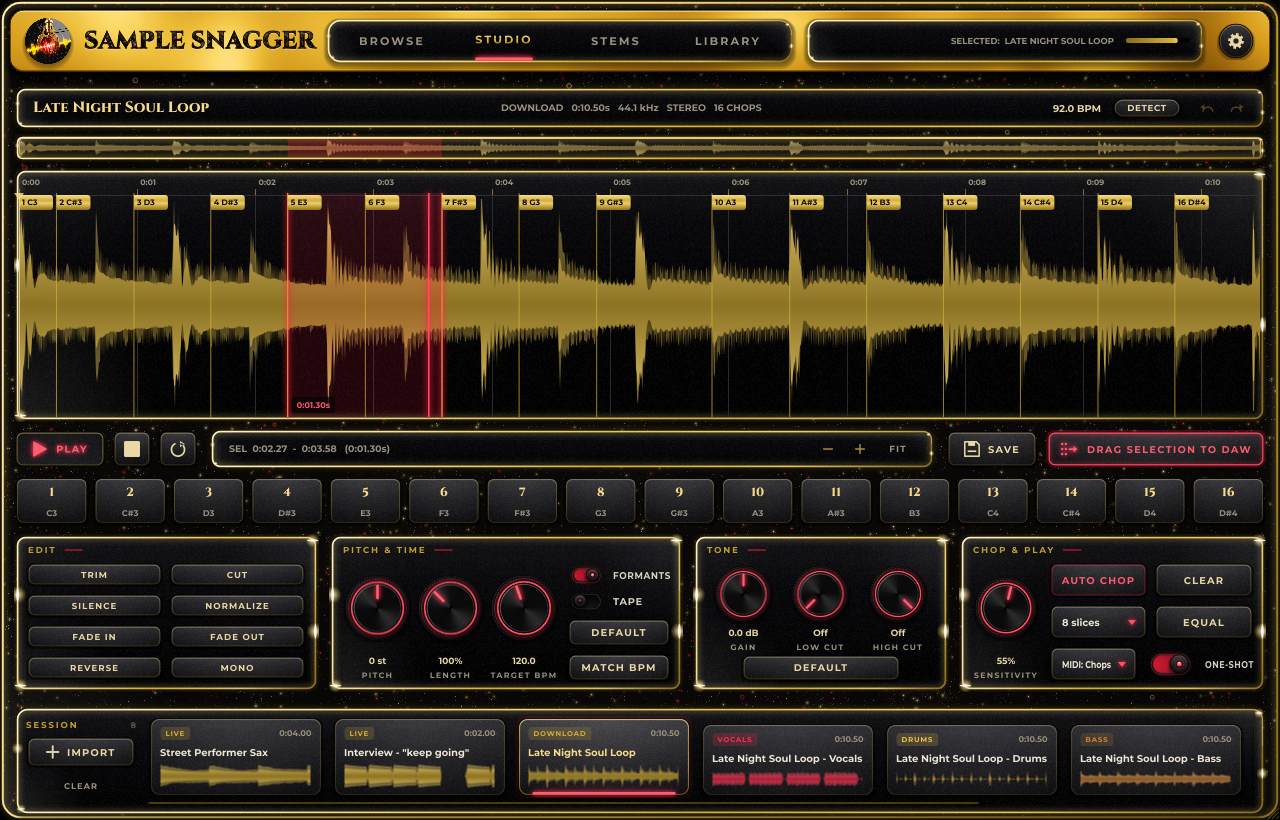
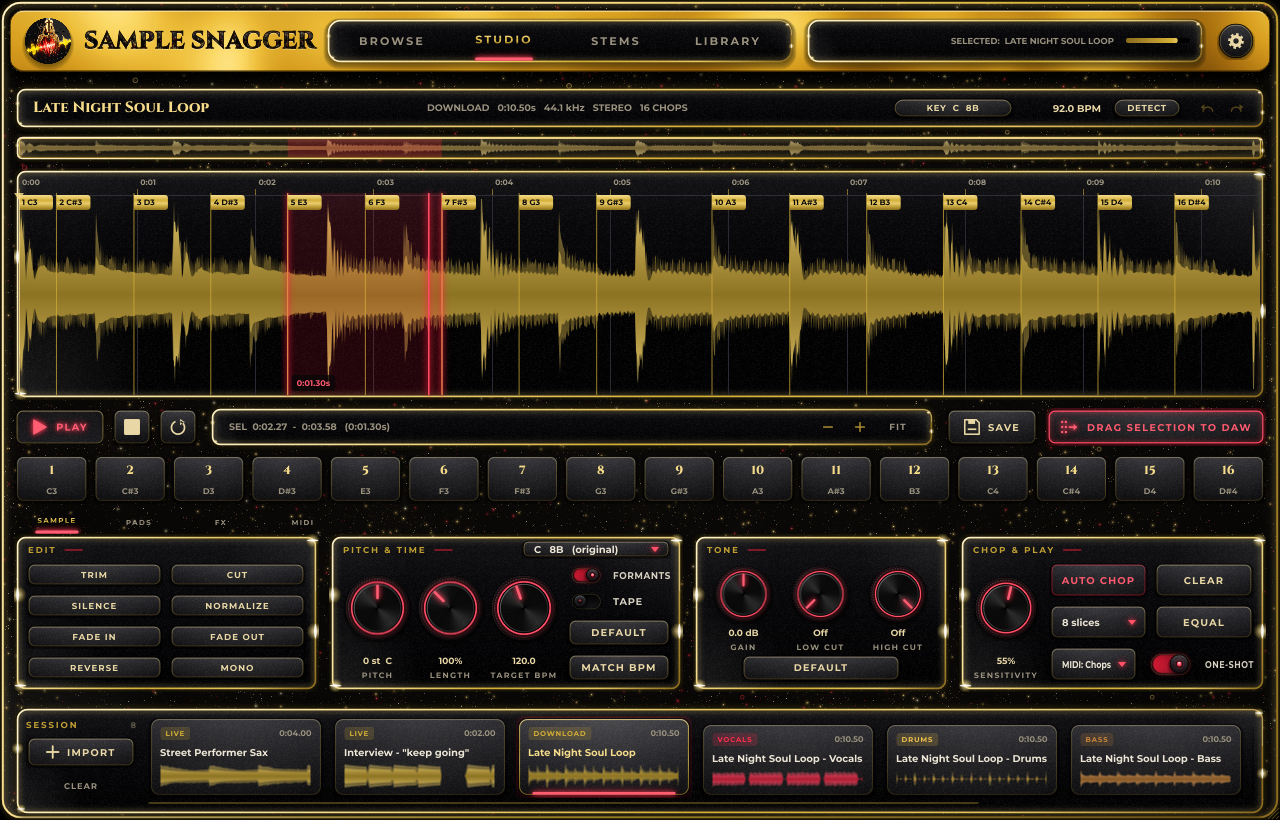
Sample Snagger 1.5.0: key detection, per-pad sound, FX rack, audio to MIDI [release]
- Key detection: tuning-aware chroma of the sustained sound + Temperley
  profiles + bass-root bonus; Camelot codes; click the key for the likeliest
  alternatives or to set it; TO KEY shifts the sample (PITCH shows the key).
- STUDIO tabs: SAMPLE | PADS | FX | MIDI.
- PADS: gain, pitch (sampler style), reverse, attack, release, filter per
  chop; COPY TO ALL PADS; pads play it live and drags include it.
- FX: lo-fi (bits, rate, vinyl crackle / hiss / wow), drive, ping-pong delay
  synced to the host tempo, reverb - on the pads and STUDIO playback, and
  rendered with their tails into drags and saves.
- MIDI: Spotify's Basic Pitch (Apache 2.0) built in, run by a small ONNX
  reader (matches the reference 28/28 notes); sensitivity / min note /
  melody-only reshape instantly; LISTEN, SAVE .MID, DRAG MIDI.
- Settings: LICENCES shows the third-party notices.

Claude-Session: https://claude.ai/code/session_014VmkDpybidYTX5yiYvJNqu

diff --git a/Source/ui/SettingsPanel.cpp b/Source/ui/SettingsPanel.cpp
@@ -1,4 +1,5 @@
 #include "SettingsPanel.h"
+#include "SnaggerBinaryData.h"
 #include "../PluginProcessor.h"
 #include "../Actions.h"
 #include "../core/AiStems.h"
@@ -204,6 +205,11 @@ SettingsPanel::SettingsPanel (EditorContext& c) : ctx (c), proc (c.getProcessor(
     addChildComponent (audioBtn);
     audioBtn.setVisible (proc.wrapperType == juce::AudioProcessor::wrapperType_Standalone);
 
+    setStyle (licencesBtn, "ghost");
+    licencesBtn.setTooltip ("The open-source software inside Sample Snagger, and its licences");
+    licencesBtn.onClick = [this] { showLicences(); };
+    addAndMakeVisible (licencesBtn);
+
     proc.getTools().addChangeListener (this);
     setVisible (false);
 }
@@ -277,6 +283,30 @@ void SettingsPanel::resized()
     lib.removeFromRight (10);
     lib.removeFromLeft (110);
     libLabel.setBounds (lib);
+
+    licencesBtn.setBounds (card.reduced (24, 16).removeFromBottom (32).removeFromRight (96).reduced (0, 5));
+}
+
+void SettingsPanel::showLicences()
+{
+    auto* text = new juce::TextEditor();
+    text->setMultiLine (true);
+    text->setReadOnly (true);
+    text->setScrollbarsShown (true);
+    text->setFont (theme::mono (12.0f));
+    text->setColour (juce::TextEditor::backgroundColourId, theme::col::bg1);
+    text->setColour (juce::TextEditor::textColourId, theme::col::text);
+    text->setText (juce::String::fromUTF8 (SnaggerBinary::THIRD_PARTY_NOTICES_txt, SnaggerBinary::THIRD_PARTY_NOTICES_txtSize));
+    text->setSize (720, 520);
+    juce::DialogWindow::LaunchOptions o;
+    o.content.setOwned (text);
+    o.dialogTitle = "Sample Snagger - open-source licences";
+    o.dialogBackgroundColour = theme::col::bg1;
+    o.escapeKeyTriggersCloseButton = true;
+    o.useNativeTitleBar = true;
+    o.resizable = true;
+    o.componentToCentreAround = this;
+    o.launchAsync();
 }
 
 void SettingsPanel::paint (juce::Graphics& g)
@@ -309,7 +339,7 @@ void SettingsPanel::paint (juce::Graphics& g)
     g.setFont (ui (10.5f));
     g.drawFittedText ("Everything runs on your computer. Helper tools are downloaded from their official GitHub releases into Sample Snagger's own folder. "
                       "Only sample material you have the rights to use - clear samples before releasing music.",
-                      card.reduced (24, 16).removeFromBottom (32), juce::Justification::centredLeft, 2);
+                      card.reduced (24, 16).removeFromBottom (32).withTrimmedRight (110), juce::Justification::centredLeft, 2);
 }
 
 } // namespace snag

diff --git a/Tests/TestMain.cpp b/Tests/TestMain.cpp
@@ -1871,6 +1871,14 @@ static void renderScreens (const juce::File& dir)
     ed->showTab (Tab::browse);
     pump (150);
     savePng (*ed, dir.getChildFile ("7-browse-min-size.png"));
+    ed->showTab (Tab::studio);
+    for (int d = 0; d < 4; ++d)
+    {
+        studio.setDeck (d);
+        pump (100);
+        savePng (*ed, dir.getChildFile ("8-studio-min-size-" + juce::String (d) + ".png"));
+    }
+    studio.setDeck (0);
 
     ed.reset();
     p->session.flushWrites();

diff --git a/Source/ui/SettingsPanel.h b/Source/ui/SettingsPanel.h
@@ -44,6 +44,8 @@ private:
     juce::Label libLabel;
     juce::TextButton libBtn { "CHANGE" };
     juce::TextButton audioBtn { "AUDIO / MIDI SETTINGS" };
+    juce::TextButton licencesBtn { "LICENCES" };
+    void showLicences();
     std::unique_ptr<juce::FileChooser> chooser;
 };
 

diff --git a/Source/core/AudioToMidi.cpp b/Source/core/AudioToMidi.cpp
@@ -3,6 +3,8 @@
 #include "EditOps.h"
 #include "SnaggerBinaryData.h"
 #include <atomic>
+#include <algorithm>
+#include <limits>
 #include <map>
 #include <mutex>
 #include <cmath>

diff --git a/Source/core/OnnxLite.cpp b/Source/core/OnnxLite.cpp
@@ -1,5 +1,7 @@
 #include "OnnxLite.h"
 #include <cmath>
+#include <algorithm>
+#include <limits>
 #include <cstring>
 #include <functional>
 #include <numeric>

diff --git a/Source/core/KeyDetect.cpp b/Source/core/KeyDetect.cpp
@@ -1,6 +1,7 @@
 #include "KeyDetect.h"
 #include <juce_dsp/juce_dsp.h>
 #include <array>
+#include <algorithm>
 #include <cmath>
 
 namespace snag::key

diff --git a/Source/ui/StudioDecks.h b/Source/ui/StudioDecks.h
@@ -2,6 +2,8 @@
 
 #include "Page.h"
 #include "../core/AudioToMidi.h"
+#include <atomic>
+#include <memory>
 
 class SnaggerProcessor;
 

diff --git a/README.md b/README.md
@@ -53,6 +53,28 @@ Every capture lands in the **Session tray** at the bottom. Tray clips are saved 
   One-shot or gated. **KEYS mode** plays the sample chromatically instead.
 - **Drag to DAW:** drag the selection, the whole sample, or *any single pad* onto a track.
 - **SAVE** writes a WAV into your sample library.
+- **Key detection:** the key and its Camelot code (e.g. *Am 8A*) show next to the BPM, found by itself when you
+  open a sample (tuning-aware, so slightly-off vinyl rips still work). Click it to pick from the likeliest keys or
+  set it yourself. **TO KEY** in PITCH & TIME shifts the sample into any key, and the PITCH knob shows the key it
+  lands on.
+
+The tool area has four tabs:
+
+- **SAMPLE** - Edit, Pitch & Time, Tone and Chop & Play (above).
+- **PADS** - click a pad and shape its sound: **GAIN, PITCH** (sampler style, like an MPC), **ATTACK, RELEASE,
+  FILTER** (low-pass one way, high-pass the other) and **REVERSE**; **COPY TO ALL PADS**. Dragging a pad into your
+  DAW gives you exactly what the pad plays.
+- **FX** - a rack for the pads and STUDIO playback: **LO-FI** (bits, sample rate, *vinyl*: crackle, hiss, wow &
+  flutter), **DRIVE** (warm saturation), **DELAY** (ping-pong, locked to your DAW's tempo - 1/32 to 1 bar, dotted
+  and triplets) and **REVERB**. Drags and saves include the effects, echoes and reverb tails included.
+- **MIDI** - **audio to MIDI**: FIND NOTES turns the sample (or the selection) into notes - melodies, bass lines
+  and chords - with Spotify's *Basic Pitch* model, built in and offline. SENSITIVITY and MIN NOTE re-shape the
+  result instantly, *Melody only* keeps one note at a time. **LISTEN**, **SAVE .MID**, or **DRAG MIDI** onto a
+  track. Tip: separate the part in STEMS first for the cleanest notes.
+
+![Pads](docs/screenshots/studio-pads.png)
+![FX](docs/screenshots/studio-fx.png)
+![MIDI](docs/screenshots/studio-midi.png)
 
 ### 3. STEMS - separate vocals and music
 - **Pick the parts you want** from the menu: any mix of *Vocals, Music (everything but vocals), Drums, Bass,
@@ -145,6 +167,8 @@ builds installers for macOS, Windows and Linux; or build locally with CMake.
 - [Signalsmith Stretch](https://github.com/Signalsmith-Audio/signalsmith-stretch) - pitch / time (MIT)
 - [demucs.cpp](https://github.com/sevagh/demucs.cpp) (MIT) with [Eigen](https://eigen.tuxfamily.org) (MPL 2.0) - the built-in
   AI engine; models are Meta's [Demucs v4](https://github.com/facebookresearch/demucs) (MIT), converted by demucs.cpp
+- [Basic Pitch](https://github.com/spotify/basic-pitch) (Apache 2.0, Spotify) - the built-in audio to MIDI; its model
+  is included unmodified (`Resources/Models`) and runs on Sample Snagger's own small ONNX reader
 - [yt-dlp](https://github.com/yt-dlp/yt-dlp) (Unlicense), [FFmpeg](https://ffmpeg.org) (LGPL/GPL, downloaded separately),
   [Deno](https://deno.com) (MIT), Python Demucs (MIT) - installed on demand, not bundled
 - Fonts: Cinzel and Montserrat (SIL Open Font License, see `Resources/Fonts`)
